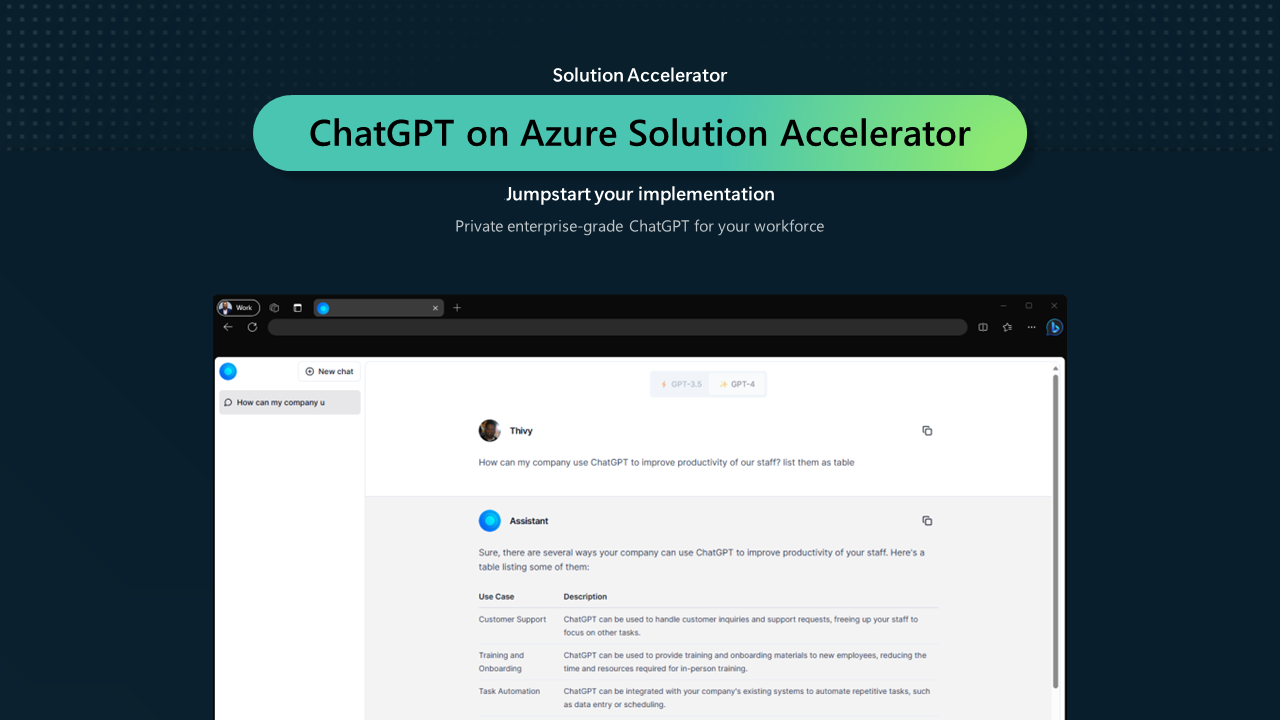
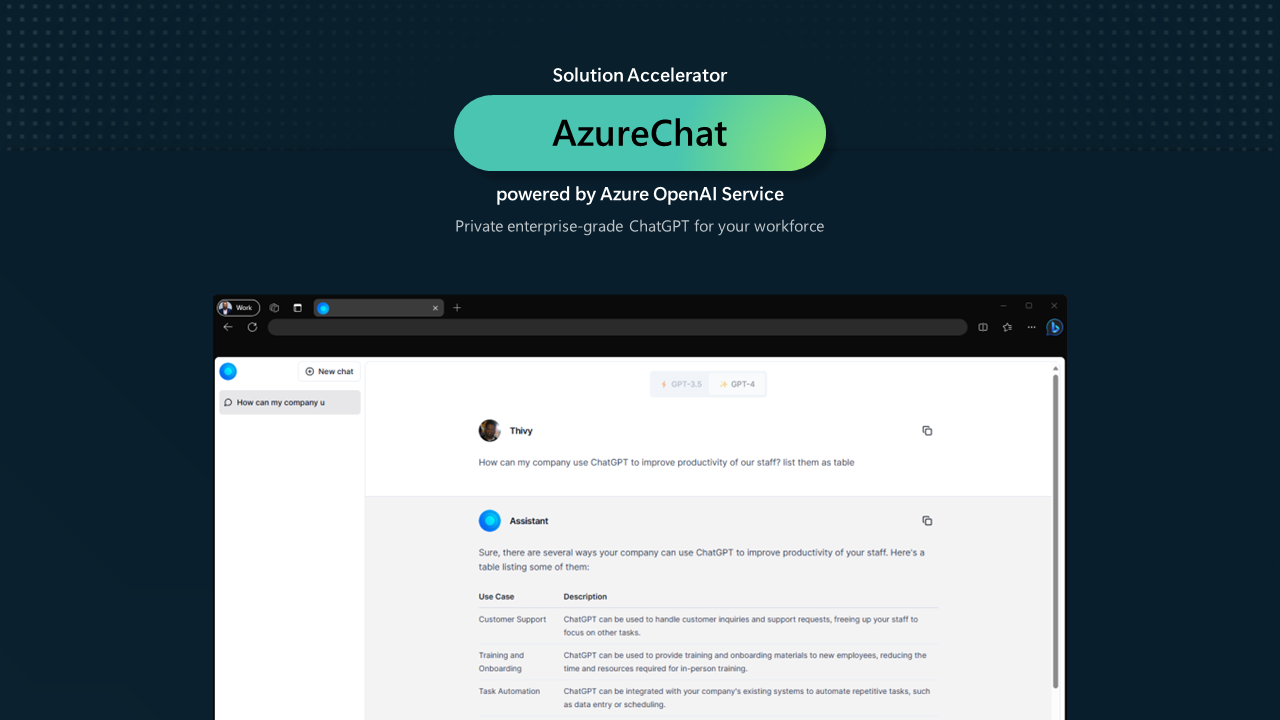
update documentation

Changed region(s): [[0.1875, 0.1222, 0.8125, 0.3056]]

diff --git a/src/features/theme/customise.ts b/src/features/theme/customise.ts
@@ -1,1 +1,1 @@
-export const AI_NAME = "ChatGPT on Azure solution accelerator";
+export const AI_NAME = "AzureChat";

diff --git a/docs/7-environment-variables.md b/docs/7-environment-variables.md
@@ -2,25 +2,25 @@
 
 Below are the required environment variables, to be added to the Azure Portal or in the `.env.local` file.
 
-| App Setting                                                                                                 | Value                                        | Note                                                                                                                                   |
-| ----------------------------------------------------------------------------------------------------------- | -------------------------------------------- | -------------------------------------------------------------------------------------------------------------------------------------- |
-| AZURE_OPENAI_API_KEY                                                                                        |                                              | API keys of your Azure OpenAI resource                                                                                                 |
-| AZURE_OPENAI_API_INSTANCE_NAME                                                                              |                                              | the name of your Azure OpenAI resource                                                                                                 |
-| AZURE_OPENAI_API_DEPLOYMENT_NAME                                                                            |                                              | The name of your model deployment                                                                                                      |
-| AZURE_OPENAI_API_VERSION                                                                                    | 2023-03-15-preview                           | API version when using gpt chat                                                                                                        |
-| AUTH_GITHUB_ID                                                                                              |                                              | Client ID of your GitHub OAuth application                                                                                             |
-| AUTH_GITHUB_SECRET                                                                                          |                                              | Client Secret of your GitHub OAuth application                                                                                         |
-| NEXTAUTH_SECRET                                                                                             |                                              | Used to encrypt the NextAuth.js JWT, and to hash email verification tokens. **This set by default as part of the deployment template** |
-| NEXTAUTH_URL                                                                                                |                                              | Current webs hosting domain name with HTTP or HTTPS. **This set by default as part of the deployment template**                        |
-| AZURE_COSMOSDB_URI                                                                                          |                                              | URL of the Azure CosmosDB                                                                                                              |
-| AZURE_COSMOSDB_KEY                                                                                          |                                              | API Key for Azure Cosmos DB                                                                                                            |
-| AZURE_AD_CLIENT_ID                                                                                          |                                              | The client id specific to the application                                                                                              |
-| AZURE_AD_CLIENT_SECRET                                                                                      |                                              | The client secret specific to the application                                                                                          |
-| AZURE_AD_TENANT_ID                                                                                          |                                              | The organisation Tenant ID                                                                                                             |
-| **Azure Cognitive Search is optional for ChatGPT on Azure solution accelerator. This is only required for chat over file feature.** |
-| AZURE_SEARCH_API_KEY                                                                                        |                                              | API Key of Azure Cognitive search                                                                                                      |
-| AZURE_SEARCH_NAME                                                                                           | https://AZURE_SEARCH_NAME.search.windows.net | The deployment name of your Azure Cognitive Search                                                                                     |
-| AZURE_SEARCH_INDEX_NAME                                                                                     |                                              | The index name with [vector search](https://learn.microsoft.com/en-us/azure/search/vector-search-overview) enabled                     |
-| AZURE_SEARCH_API_VERSION                                                                                    | 2023-07-01-Preview                           | API version which supports vector search 2023-07-01-Preview                                                                            |
-| AZURE_DOCUMENT_INTELLIGENCE_ENDPOINT                                                                        | https://REGION.api.cognitive.microsoft.com/  | Endpoint url of the Azure document intelligence. The REGION is specific to your Azure resource location                                |
-| AZURE_DOCUMENT_INTELLIGENCE_KEY                                                                             |                                              | API keys of your Azure Document intelligence resource                                                                                  |
+| App Setting                                                                                             | Value                                        | Note                                                                                                                                   |
+| ------------------------------------------------------------------------------------------------------- | -------------------------------------------- | -------------------------------------------------------------------------------------------------------------------------------------- |
+| AZURE_OPENAI_API_KEY                                                                                    |                                              | API keys of your Azure OpenAI resource                                                                                                 |
+| AZURE_OPENAI_API_INSTANCE_NAME                                                                          |                                              | the name of your Azure OpenAI resource                                                                                                 |
+| AZURE_OPENAI_API_DEPLOYMENT_NAME                                                                        |                                              | The name of your model deployment                                                                                                      |
+| AZURE_OPENAI_API_VERSION                                                                                | 2023-03-15-preview                           | API version when using gpt chat                                                                                                        |
+| AUTH_GITHUB_ID                                                                                          |                                              | Client ID of your GitHub OAuth application                                                                                             |
+| AUTH_GITHUB_SECRET                                                                                      |                                              | Client Secret of your GitHub OAuth application                                                                                         |
+| NEXTAUTH_SECRET                                                                                         |                                              | Used to encrypt the NextAuth.js JWT, and to hash email verification tokens. **This set by default as part of the deployment template** |
+| NEXTAUTH_URL                                                                                            |                                              | Current webs hosting domain name with HTTP or HTTPS. **This set by default as part of the deployment template**                        |
+| AZURE_COSMOSDB_URI                                                                                      |                                              | URL of the Azure CosmosDB                                                                                                              |
+| AZURE_COSMOSDB_KEY                                                                                      |                                              | API Key for Azure Cosmos DB                                                                                                            |
+| AZURE_AD_CLIENT_ID                                                                                      |                                              | The client id specific to the application                                                                                              |
+| AZURE_AD_CLIENT_SECRET                                                                                  |                                              | The client secret specific to the application                                                                                          |
+| AZURE_AD_TENANT_ID                                                                                      |                                              | The organisation Tenant ID                                                                                                             |
+| **Azure Cognitive Search is optional for AzureChat. This is only required for chat over file feature.** |
+| AZURE_SEARCH_API_KEY                                                                                    |                                              | API Key of Azure Cognitive search                                                                                                      |
+| AZURE_SEARCH_NAME                                                                                       | https://AZURE_SEARCH_NAME.search.windows.net | The deployment name of your Azure Cognitive Search                                                                                     |
+| AZURE_SEARCH_INDEX_NAME                                                                                 |                                              | The index name with [vector search](https://learn.microsoft.com/en-us/azure/search/vector-search-overview) enabled                     |
+| AZURE_SEARCH_API_VERSION                                                                                | 2023-07-01-Preview                           | API version which supports vector search 2023-07-01-Preview                                                                            |
+| AZURE_DOCUMENT_INTELLIGENCE_ENDPOINT                                                                    | https://REGION.api.cognitive.microsoft.com/  | Endpoint url of the Azure document intelligence. The REGION is specific to your Azure resource location                                |
+| AZURE_DOCUMENT_INTELLIGENCE_KEY                                                                         |                                              | API keys of your Azure Document intelligence resource                                                                                  |

diff --git a/docs/6-chat-over-file.md b/docs/6-chat-over-file.md
@@ -27,7 +27,7 @@ When deploying to Azure, ensure to update the Azure App service app settings wit
 
 ```
 {
-      "name": "azure-chatgpt",
+      "name": "azure-chat",
       "fields": [
         {
           "name": "id",
@@ -90,20 +90,22 @@ AZURE_SEARCH_INDEX_NAME=
 AZURE_SEARCH_API_VERSION="2023-07-01-Preview"
 ```
 
-3. Create an instance of Azure Form Recognizer (also known as Azure Document Intelligence) using the following [link](https://learn.microsoft.com/en-us/azure/ai-services/document-intelligence/create-document-intelligence-resource?view=doc-intel-3.1.0). Please be aware that this resource might be called *Form recognizer* in Azure Portal.
+3. Create an instance of Azure Form Recognizer (also known as Azure Document Intelligence) using the following [link](https://learn.microsoft.com/en-us/azure/ai-services/document-intelligence/create-document-intelligence-resource?view=doc-intel-3.1.0). Please be aware that this resource might be called _Form recognizer_ in Azure Portal.
 
 4. After the Form Recognizer (Document Intelligence) resource has been created, proceed to modify the `env.local` file with appropriate environment variables. You can find values for these variables in your _Form Recognizer_ resource (Resource Management blade > Keys and Endpoint). Please make sure that you don't copy the endpoint from there, but only replace the region in the example below. For example, if your Form Recognizer resource is located in East US Azure region, your `AZURE_DOCUMENT_INTELLIGENCE_ENDPOINT` variable would be `https://eastus.api.cognitive.microsoft.com/`.
 
    Please note that the file is only preserved for each chat thread:
-      ```
-      # Azure AI Document Intelligence to extract content from your data
-      AZURE_DOCUMENT_INTELLIGENCE_ENDPOINT="https://REGION.api.cognitive.microsoft.com/"
-      AZURE_DOCUMENT_INTELLIGENCE_KEY=
-      ```
+
+   ```
+   # Azure AI Document Intelligence to extract content from your data
+   AZURE_DOCUMENT_INTELLIGENCE_ENDPOINT="https://REGION.api.cognitive.microsoft.com/"
+   AZURE_DOCUMENT_INTELLIGENCE_KEY=
+   ```
+
 5. At this point, you should be able to start new chat sessions with the `File` option.
    ![](/images/personalise-session.png)
-7. Once the `File` chat option is selected, click the `Choose File` button to select your document and then click the `Upload` button to upload your file. Please note that the Form Recognizer service supports PDF (text or scanned), JPG and PNG input documents.
-8. Once you receive a notification about a successful file upload, you should be able to start chatting with chatting with a chatbot.
+6. Once the `File` chat option is selected, click the `Choose File` button to select your document and then click the `Upload` button to upload your file. Please note that the Form Recognizer service supports PDF (text or scanned), JPG and PNG input documents.
+7. Once you receive a notification about a successful file upload, you should be able to start chatting with chatting with a chatbot.
 
 ### Things to consider:
 

diff --git a/README.md b/README.md
@@ -1,29 +1,27 @@
 # Unleash the Power of Azure Open AI
 
+AzureChat powered by Azure OpenAI Service
+
 ![](/images/intro.png)
 
-ChatGPT has grown explosively in popularity as we all know now. Business users across the globe often tap into the public service to work more productively or act as a creative assistant.
+The AzureChat powered by Azure OpenAI solution accelerator (AzureChat) is an enterprise option. What makes AzureChat special is that the solution has been developed on ChatGPT API and therefore provides familiar chat experience for the user, but in a private instance.
 
-However, ChatGPT risks exposing confidential intellectual property. One option is to block corporate access to ChatGPT, but people always find workarounds. This also limits the powerful capabilities of ChatGPT and reduces employee productivity and their work experience.
+AzureChat provides organisations with secure and powerful chat capabilities so that they can realise the positive impact on employee productivity and their work experience.
 
-ChatGPT on Azure solution accelerator is our enterprise option. This solution provides similar user experience to ChatGPT but offered as your private ChatGPT.
+Benefits are:
 
-### Benefits are:
+1. Private: Built-in guarantees around the privacy of your data and fully isolated.
 
-**1. Private:** Built-in guarantees around the privacy of your data and fully isolated from those operated by OpenAI.
+2. Controlled: Network traffic can be fully isolated to your network and other enterprise grade security controls are built in.
 
-**2. Controlled:** Network traffic can be fully isolated to your network and other enterprise grade security controls are built in.
-
-**3. Value:** Deliver added business value with your own internal data sources (plug and play) or use plug-ins to integrate with your internal services (e.g., ServiceNow, etc).
-
-We've built a Solution Accelerator to empower your workforce with ChatGPT on Azure solution accelerator.
+3. Value: Deliver added business value with your own internal data sources (plug and play) or use plug-ins to integrate with your internal services (e.g., ServiceNow, etc).
 
 # Getting Started
 
-1. [ Introduction](/docs/1-introduction.md)
+1. [Introduction](/docs/1-introduction.md)
 1. [Provision Azure Resources](/docs/2-provision-azure-resources.md)
-1. [Run ChatGPT on Azure solution accelerator from your local machine](/docs/3-run-locally.md)
-1. [Deploy ChatGPT on Azure solution accelerator to Azure](/docs/4-deployto-azure.md)
+1. [Run AzureChat from your local machine](/docs/3-run-locally.md)
+1. [Deploy AzureChat to Azure](/docs/4-deployto-azure.md)
 1. [Add identity provider](/docs/5-add-Identity.md)
 1. [Chatting with your file](/docs/6-chat-over-file.md)
 1. [Environment variables](/docs/7-environment-variables.md)

diff --git a/docs/1-introduction.md b/docs/1-introduction.md
@@ -1,15 +1,15 @@
 # 📘 Prerequisites
 
-1. [Azure OpenAI](https://azure.microsoft.com/en-us/products/cognitive-services/openai-service/): To deploy and run ChatGPT on Azure, you'll need an Azure subscription with access to the Azure OpenAI service. Request access [here](https://customervoice.microsoft.com/Pages/ResponsePage.aspx?id=v4j5cvGGr0GRqy180BHbR7en2Ais5pxKtso_Pz4b1_xUOFA5Qk1UWDRBMjg0WFhPMkIzTzhKQ1dWNyQlQCN0PWcu). Once you have access, follow the instructions in this [link](https://learn.microsoft.com/en-us/azure/cognitive-services/openai/how-to/create-resource?pivots=web-portal) to deploy the gpt-35-turbo or gpt-4 models.
+1. [Azure OpenAI](https://azure.microsoft.com/en-us/products/cognitive-services/openai-service/): To deploy and run AzureChat, you'll need an Azure subscription with access to the Azure OpenAI service. Request access [here](https://customervoice.microsoft.com/Pages/ResponsePage.aspx?id=v4j5cvGGr0GRqy180BHbR7en2Ais5pxKtso_Pz4b1_xUOFA5Qk1UWDRBMjg0WFhPMkIzTzhKQ1dWNyQlQCN0PWcu). Once you have access, follow the instructions in this [link](https://learn.microsoft.com/en-us/azure/cognitive-services/openai/how-to/create-resource?pivots=web-portal) to deploy the gpt-35-turbo or gpt-4 models.
 
 2. Setup GitHub or Azure AD for Authentication:
-   The [add an identity provider](https://github.com/oliverlabs/azurechatgpt#-add-an-identity-provider) section below shows how to configure authentication providers.
+   The [add an identity provider](https://github.com/oliverlabs/azurechat#-add-an-identity-provider) section below shows how to configure authentication providers.
 
    💡Note: You can configure the authentication provider to your identity solution using [NextAuth providers](https://next-auth.js.org/providers/)
 
 # 👋🏻 Introduction
 
-ChatGPT on Azure solution accelerator is built with the following technologies.
+AzureChat - (powered by Azure OpenAI) solution accelerator is built with the following technologies.
 
 [Node.js 18](https://nodejs.org/en): an open-source, cross-platform JavaScript runtime environment.
 

diff --git a/docs/5-add-Identity.md b/docs/5-add-Identity.md
@@ -15,7 +15,7 @@ We'll create two GitHub apps: one for testing locally and another for production
 3. Fill in the following details
 
 ```
-Application name: ChatGPT on Azure solution accelerator DEV Environment
+Application name: AzureChat DEV Environment
 Homepage URL: http://localhost:3000
 Authorization callback URL: http://localhost:3000/api/auth/callback/github
 ```
@@ -27,7 +27,7 @@ Authorization callback URL: http://localhost:3000/api/auth/callback/github
 3. Fill in the following details
 
 ```
-Application name: ChatGPT on Azure solution accelerator Production
+Application name: AzureChat Production
 Homepage URL: https://YOUR-WEBSITE-NAME.azurewebsites.net
 Authorization callback URL: https://YOUR-WEBSITE-NAME.azurewebsites.net/api/auth/callback/github
 ```
@@ -49,7 +49,7 @@ Authorization callback URL: https://YOUR-WEBSITE-NAME.azurewebsites.net/api/auth
 3. Fill in the following details
 
 ```
-Application name: ChatGPT on Azure solution accelerator DEV Environment
+Application name: AzureChat DEV Environment
 Supported account types: Accounts in this organizational directory only
 Redirect URI Platform: Web
 Redirect URI: http://localhost:3000/api/auth/callback/azure-ad
@@ -62,7 +62,7 @@ Redirect URI: http://localhost:3000/api/auth/callback/azure-ad
 3. Fill in the following details
 
 ```
-Application name: ChatGPT on Azure solution accelerator Production
+Application name: AzureChat Production
 Supported account types: Accounts in this organizational directory only
 Redirect URI Platform: Web
 Redirect URI: https://YOUR-WEBSITE-NAME.azurewebsites.net/api/auth/callback/azure-ad

diff --git a/CONTRIBUTING.md b/CONTRIBUTING.md
@@ -1,10 +1,10 @@
 # How to contribute
 
-If you would like to contribute to the ChatGPT on Azure solution accelerator repository there are many ways you can help.
+If you would like to contribute to the AzureChat solution accelerator repository there are many ways you can help.
 
 ## Reporting issues
 
-We use [GitHub issues](https://github.com/microsoft/azurechatgpt/issues) as an issue tracker for the repository. Firstly, please search in open issues and try to make sure your problem doesn't exist. If there is an issue, add your comments to this issue.
+We use [GitHub issues](https://github.com/microsoft/azurechat/issues) as an issue tracker for the repository. Firstly, please search in open issues and try to make sure your problem doesn't exist. If there is an issue, add your comments to this issue.
 If there are no issues yet, please open a new one.
 
 ## Contributing Code
@@ -15,7 +15,7 @@ If you would like to contribute an improvement or a fix please create a Pull Req
 
 Before submitting a pull request please make sure the following is done:
 
-1. Fork [the repository](https://github.com/microsoft/azurechatgpt)
+1. Fork [the repository](https://github.com/microsoft/azurechat)
 2. Create a branch from the `main`
 3. Ensure that the code build and runs without any errors
 4. If required update the README.md

diff --git a/docs/2-provision-azure-resources.md b/docs/2-provision-azure-resources.md
@@ -4,7 +4,7 @@
 
 Click on the Deploy to Azure button and configure your settings in the Azure Portal as described in the [Environment variables](#-environment-variables) section.
 
-⚠ Note: This will only create azure resources. Follow the [deploy to Azure section](#-deploy-to-azure---github-actions) to build and deploy ChatGPT on Azure solution accelerator.
+⚠ Note: This will only create azure resources. Follow the [deploy to Azure section](#-deploy-to-azure---github-actions) to build and deploy AzureChat.
 
 Please see the [section below](#-add-an-identity-provider) for important information about adding authentication to your app.
 

diff --git a/SUPPORT.md b/SUPPORT.md
@@ -2,7 +2,7 @@
 
 ## How to file issues and get help
 
-We use [GitHub issues](https://github.com/microsoft/azurechatgpt/issues) as an issue tracker for the repository. Firstly, please search in open issues and try to make sure your problem doesn't exist. If there is an issue, add your comments to this issue.
+We use [GitHub issues](https://github.com/microsoft/azurechat/issues) as an issue tracker for the repository. Firstly, please search in open issues and try to make sure your problem doesn't exist. If there is an issue, add your comments to this issue.
 If there are no issues yet, please open a new one.
 
 ## Microsoft Support Policy

diff --git a/docs/4-deployto-azure.md b/docs/4-deployto-azure.md
@@ -1,6 +1,6 @@
 # ☁ Deploy to Azure - GitHub Actions
 
-The following steps describes how ChatGPT on Azure solution accelerator can be deployed to Azure App service using GitHub Actions.
+The following steps describes how AzureChat can be deployed to Azure App service using GitHub Actions.
 
 # 🧬 Fork the repository
 
